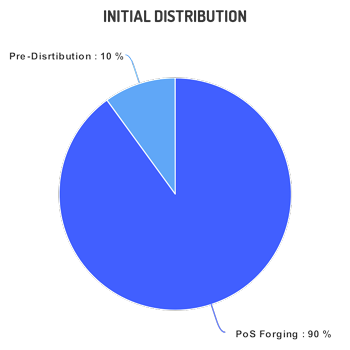
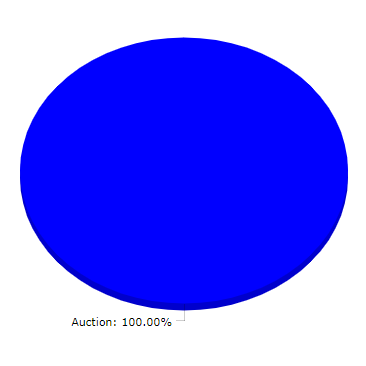
updated text

diff --git a/docs/index.html b/docs/index.html
@@ -310,15 +310,18 @@
                 <!-- column end -->
                 <div class="col-sm-6 col-sm-offset-1">
                     <!-- column start -->
-                    <h2>Distribution of MonetaryCoin Tokens</h2>
+                    <h2>Auction of MonetaryCoin Tokens</h2>
                     <p class="big-pera">The MonetaryCoin distribution events for the first two coins are both taking place between July 10th,
-                        2018 and December 30th, 2018, each in 180 separate 24 hour blocks. Participants may send ETH to the
+                        2018 and December 30th, 2018, each in 180 separate 23 hour blocks. Participants may send ETH to the
                         smart contract corresponding to each coin for a 23 hour period and then the related coins will be
                         ratably available to be claimed at the start of the 24th hour.</p>
-                    <p class="big-pera">10% of coins are being distributed over 180 windows (~days). For the first seven windows of the 180 window
-                        period, twice the number of coins will be distributed as otherwise available on windows eight through
-                        180. 90% of the MonetaryCoin tokens have been set aside for forging in the 18 months following the
-                        initial 180 window distribution period.</p>
+                    <h4>100% of the MonetaryCoin tokens will be put to auction</h4>
+                    <p class="big-pera">In every window, a fixed amount of tokens will be available for auction.
+                        Users allowed to send ETH to an open window or a future window.
+                        After the window is closed, all tokens from this window can be claimed by the bidders in proportion to their investment.
+                    </p>
+                    <p class="big-pera">For Example, Every window is allocated with 1000 tokens, if the total amount of ETH sent to this window is 100 then every participant will get 10 tokens per eth sent.
+                    </p>
                     <p class="big-pera">There is neither a hard cap nor a soft cap; the project will go ahead regardless of the amount raised.
                         Any unissued coins from a given 24 hour period will be immediately returned to the forging pool.</p>
                 </div>
